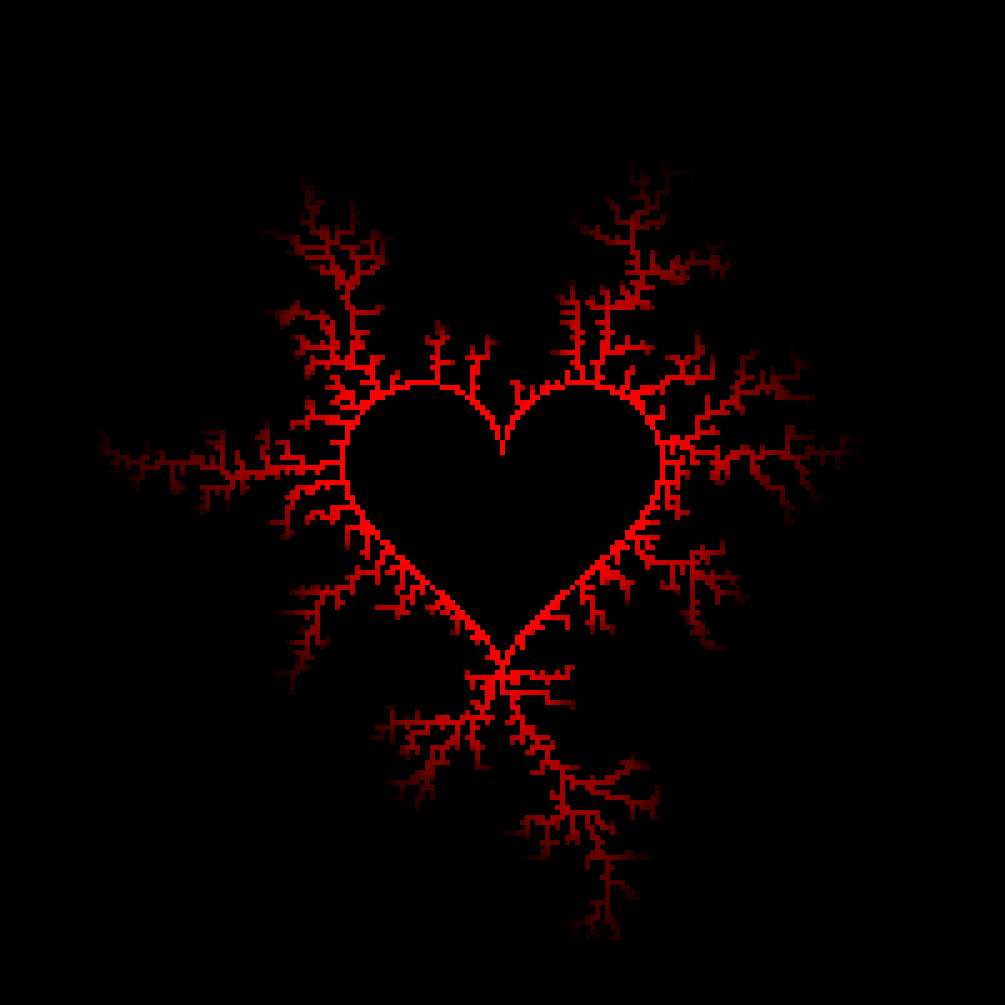
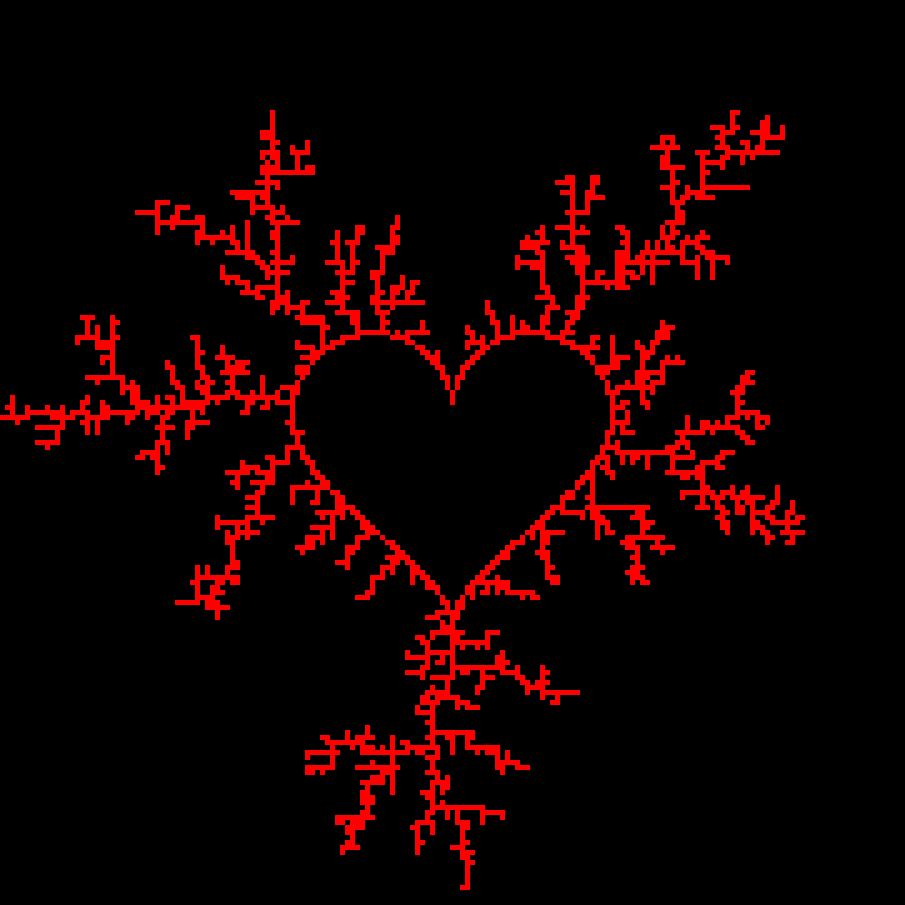
i think i forgot to commit some stuff

Changed region(s): [[0.0, 0.1238, 0.8972, 0.9901]]

diff --git a/DLA/dla.go b/DLA/dla.go
@@ -13,7 +13,6 @@ import (
 	"os/exec"
 	"time"
 
-	textColor "github.com/fatih/color"
 	"github.com/go-echarts/go-echarts/v2/charts"
 	"github.com/go-echarts/go-echarts/v2/opts"
 	// "github.com/montanaflynn/stats"
@@ -61,42 +60,42 @@ var StateColor = map[SiteState]color.NRGBA{
 type Grid [][]SiteState
 
 type Point struct {
-	row int
-	col int
+	x int
+	y int
 }
 
 var CARDINALS = []Point{
-	{row: 0, col: -1},
-	{row: 0, col: 1},
-	{row: 1, col: 0},
-	{row: -1, col: 0},
+	{x: 0, y: -1},
+	{x: 0, y: 1},
+	{x: 1, y: 0},
+	{x: -1, y: 0},
 }
 
-func mid_point(size int) Point {
+func mid_point() Point {
 	// mid := (size - 1) / 2
 
-	return Point{row: 0, col: 0}
+	return Point{x: 0, y: 0}
 }
 
 func real_mid_point(size int) Point {
 
 	mid := (size - 1) / 2
 
-	return Point{row: mid, col: mid}
+	return Point{x: mid, y: mid}
 }
 
 func add_points(p1, p2 Point) Point {
-	return Point{row: p1.row + p2.row, col: p1.col + p2.col}
+	return Point{x: p1.x + p2.x, y: p1.y + p2.y}
 }
 
 func (p *Point) add(p2 Point) {
-	p.row += p2.row
-	p.col += p2.col
+	p.x += p2.x
+	p.y += p2.y
 }
 
 func (p *Point) flip() {
-	p.row *= -1
-	p.col *= -1
+	p.x *= -1
+	p.y *= -1
 }
 
 func abs(x int) int {
@@ -104,7 +103,7 @@ func abs(x int) int {
 }
 
 func (p *Point) radius() int {
-	return max(abs(p.row), abs(p.col))
+	return max(abs(p.x), abs(p.y))
 }
 
 type Walker struct {
@@ -182,11 +181,9 @@ func gen_heart_grid(size int, radius float64) Grid {
 		t := float64(i) / float64(points) * 2 * math.Pi
 
 		x, y := heart_equation(t)
-		point := Point{col: int(math.Round(x * radius)), row: int(math.Round(y * radius))}
+		point := Point{x: int(math.Round(x * radius)), y: int(math.Round(y * radius))}
 
-		real_point := add_points(point, mid_point(size))
-
-		*grid.index(real_point) = Filled
+		*grid.index(point) = Filled
 
 	}
 
@@ -203,19 +200,19 @@ func gen_heart_grid(size int, radius float64) Grid {
 }
 
 func (g Grid) raw_index(point Point) *SiteState {
-	return &g[point.row][point.col]
+	return &g[point.y][point.x]
 }
 
 func (g Grid) index(point Point) *SiteState {
 	real_point := add_points(point, real_mid_point(len(g)))
 
-	return &g[real_point.row][real_point.col]
+	return &g[real_point.y][real_point.x]
 }
 
 func (g *Grid) is_valid_point(point Point) bool {
 	radius := len(*g) / 2
 
-	if point.row >= -radius && point.row <= radius && point.col >= -radius && point.col <= radius {
+	if point.x >= -radius && point.x <= radius && point.y >= -radius && point.y <= radius {
 		return true
 	} else {
 		return false
@@ -226,27 +223,6 @@ func (g *Grid) is_valid_point(point Point) bool {
 	// } else {
 	// 	return false
 	// }
-}
-
-func (g *Grid) print_grid() {
-	block := "██"
-
-	for _, row := range *g {
-		for _, node := range row {
-			switch node {
-			case 0:
-				textColor.Set(textColor.FgBlack)
-			case 1:
-				textColor.Set(textColor.FgWhite)
-			case 2:
-				textColor.Set(textColor.FgBlue)
-
-			}
-			fmt.Print(block)
-		}
-		fmt.Println()
-	}
-	textColor.Set(textColor.FgWhite)
 }
 
 func clear_screen() {
@@ -263,13 +239,13 @@ func random_step(r *rand.Rand) Point {
 	value := r.Float64()
 
 	if value < 0.25 {
-		return Point{row: 1, col: 0}
+		return Point{x: 1, y: 0}
 	} else if value < 0.5 {
-		return Point{row: -1, col: 0}
+		return Point{x: -1, y: 0}
 	} else if value < 0.75 {
-		return Point{row: 0, col: 1}
+		return Point{x: 0, y: 1}
 	} else {
-		return Point{row: 0, col: -1}
+		return Point{x: 0, y: -1}
 	}
 
 }
@@ -284,11 +260,19 @@ func init_model(size int, p float64, distance int) Model {
 		panic("spawning distacne must be non-negative")
 	}
 
-	// grid := gen_grid(size)
-	// *grid.index(mid_point(size)) = 1
+	// grid_type := "normal"
+	// grid_type := "heart"
+	heart := true
 
-	heart_radius := 30.0
-	grid := gen_heart_grid(size, heart_radius)
+	var grid Grid
+	if !heart {
+		grid = gen_grid(size)
+		*grid.index(mid_point()) = 1
+	} else {
+
+		heart_radius := 30.0
+		grid = gen_heart_grid(size, heart_radius)
+	}
 	// walkers := make([]Walker, 1)
 	// walkers[0] = Walker{
 	// 	location: middle,
@@ -320,13 +304,13 @@ func (m *Model) random_start(r *rand.Rand) Point {
 
 	switch side {
 	case 0:
-		point = Point{row: value, col: -spawn_radius}
+		point = Point{x: value, y: -spawn_radius}
 	case 1:
-		point = Point{row: value, col: spawn_radius}
+		point = Point{x: value, y: spawn_radius}
 	case 2:
-		point = Point{row: -spawn_radius, col: value}
+		point = Point{x: -spawn_radius, y: value}
 	case 3:
-		point = Point{row: spawn_radius, col: value}
+		point = Point{x: spawn_radius, y: value}
 	default:
 		panic("erm")
 	}
@@ -346,14 +330,14 @@ func (m *Model) countNeibors(point Point) int {
 	return neighbors
 }
 
-func (m *Model) onPerimeter(point Point) bool {
-	radius := m.size / 2
-	if point.row == -radius || point.row == radius || point.col == -radius || point.col == radius {
-		return true
-	} else {
-		return false
-	}
-}
+// func (m *Model) onPerimeter(point Point) bool {
+// 	radius := m.size / 2
+// 	if point.row == -radius || point.row == radius || point.col == -radius || point.col == radius {
+// 		return true
+// 	} else {
+// 		return false
+// 	}
+// }
 
 func (m *Model) tick(r *rand.Rand) bool {
 
@@ -396,11 +380,11 @@ func (m *Model) tick(r *rand.Rand) bool {
 					return false
 				}
 
-				if m.onPerimeter(new_point) {
-					return true
-				} else {
-					return false
-				}
+				// if m.onPerimeter(new_point) {
+				// 	return true
+				// } else {
+				// 	return false
+				// }
 
 			}
 		}
@@ -608,6 +592,7 @@ func cast_to_float(input []any) ([]float64, error) {
 // }
 
 func one_trial() {
+	// parameters:
 	size := 201
 	p := 1.0
 	distance := 10
@@ -651,24 +636,24 @@ func pretty_picture(model Model, name string, scale int) {
 
 	grid := model.grid
 
-	size := len(grid)
+	cropped := model.size - model.distance*2
 
-	img := image.NewNRGBA(image.Rect(0, 0, size*scale, size*scale))
+	img := image.NewNRGBA(image.Rect(0, 0, cropped*scale, cropped*scale))
 
-	for y, row := range grid {
-		for x := range row {
+	for y, row := range grid[model.distance : model.size-model.distance] {
+		for x, value := range row[model.distance : model.size-model.distance] {
 
 			var color color.Color
-			if grid[x][y] == Empty {
+			if value == Empty {
 				color = StateColor[Empty]
 			} else {
-				// color = StateColor[Filled]
-				color = calc_color(float64(grid[x][y]) / float64(model.infected))
+				color = StateColor[Filled]
+				// color = calc_color(float64(grid[x][y]) / float64(model.infected))
 			}
 
 			for i := range scale {
 				for j := range scale {
-					img.Set(y*scale+i, x*scale+j, color)
+					img.Set(x*scale+j, y*scale+i, color)
 				}
 			}
 		}
